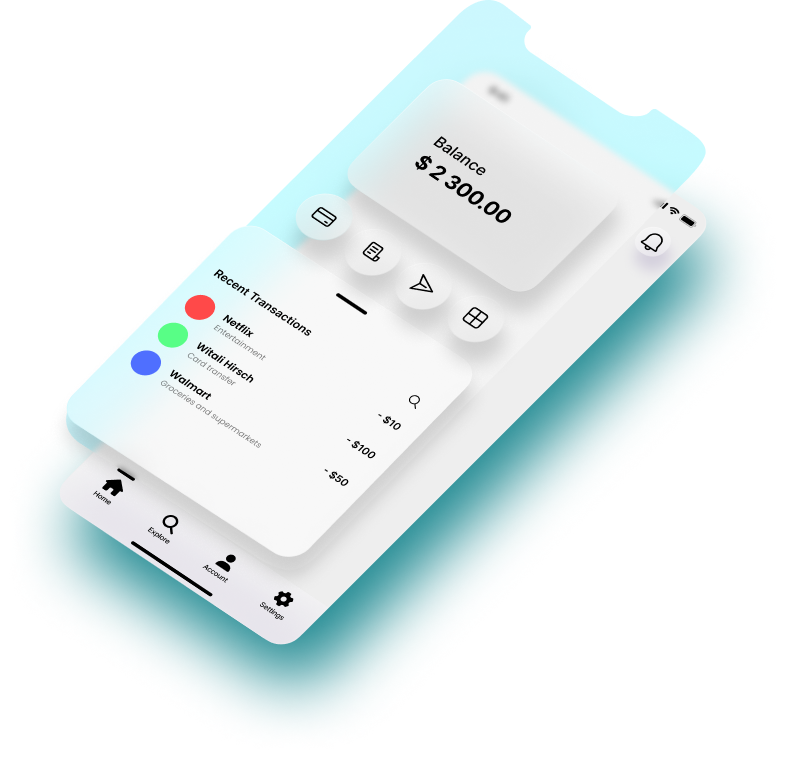
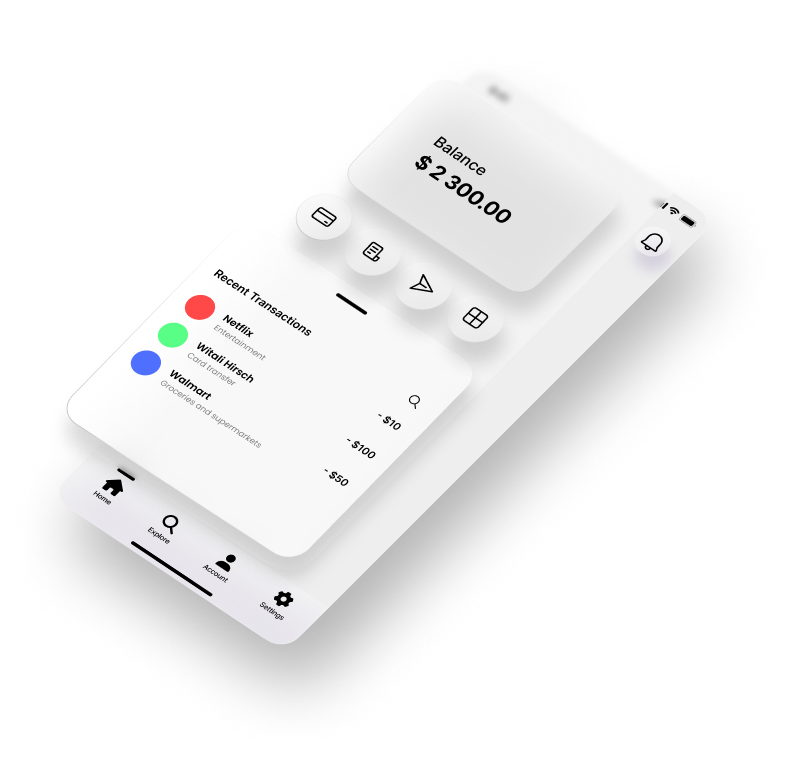
tests for navbar burger

Changed region(s): [[0.0611, 0.3038, 0.9466, 0.9419], [0.0611, 0.0, 0.916, 0.6077]]

diff --git a/bank/index.html b/bank/index.html
@@ -5,8 +5,6 @@
     <meta charset="UTF-8">
     <meta name="viewport" content="width=device-width, initial-scale=1.0, viewport-fit=cover">
     <meta name="theme-color" content="#fff">
-    <!--<meta name="theme-color" content="#fdcfee" media="(prefers-color-scheme: light)">
-    <meta name="theme-color" content="#220719" media="(prefers-color-scheme: dark)">-->
     <meta name="apple-mobile-web-app-capable" content="yes">
     <meta name="apple-mobile-web-app-status-bar-style" content="yes">
     <meta http-equiv="X-UA-Compatible" content="ie-edge">
@@ -15,6 +13,7 @@
     <link id="theme-style" rel="stylesheet" href="css/light.css">
     <link rel="stylesheet" type="text/css" href="css/card.css" />
     <link rel="stylesheet" type="text/css" href="css/loading.css" />
+    <link rel="stylesheet" type="text/css" href="css/get-app.css" />
     <link rel="shortcut icon" type="image/svg" href="images/logo.svg">
     <title>Bank</title>
 </head>
@@ -38,7 +37,7 @@
                 <div class="nav-left">
                     <ul>
                         <li class="nav-text">
-                            <a class="nav-link" href="" ontouchstart="">Home</a>
+                            <a class="nav-link nav-link-active" href="" ontouchstart="">Home</a>
                         </li>
                         <li class="nav-text">
                             <a class="nav-link" href="" ontouchstart="">Features</a>
@@ -57,7 +56,7 @@
                             <a class="nav-link" href="" ontouchstart="">Business</a>
                         </li>
                         <li class="nav-button" ontouchstart="">
-                            <a class="nav-link-button" href="">Get App</a>
+                            <a class="nav-link-button">Get App</a>
                         </li>
                     </ul>
                 </div>
@@ -77,7 +76,7 @@
     </button>
     <main class="wrapper">
         <section class="top-content">
-            <img id="ellipse-top" src="images/ellipse-top.svg" alt="Ellipse Top">
+
             <div class="container-row">
                 <div class="title-left">
                     <div class="title-left-top">
@@ -96,16 +95,12 @@
                 <div class="title-right">
                     <div class="cards">
                         <img id="cards" src="images/cards.png" alt="Cards">
-                        <span class="circle-1"></span>
-                        <span class="circle-2"></span>
-                        <span class="circle-3"></span>
-                        <span class="circle-4"></span>
                     </div>
                 </div>
             </div>
         </section>
         <section class="center-content">
-            <img id="ellipse-center" src="images/ellipse-center.svg" alt="Ellipse Center">
+     
             <div class="container-column">
                 <div class="center-content-top">
                     <p class="title">Buy with your Phone!</p>
@@ -158,7 +153,6 @@
         </section>
     </main>
     <footer class="footer">
-        <img id="ellipse-bottom" src="images/ellipse-bottom.svg" alt="Ellipse Bottom">
         <div class="container-row">
             <div class="footer-section">
                 <button class="footer-title" id="socials-title" ontouchstart="">Socials</button>

diff --git a/bank/js/theme.js b/bank/js/theme.js
@@ -66,9 +66,6 @@ function changeImagesToDarkMode() {
 
     device.setAttribute("src", "images/device-dark.png");
 
-    ellipseTop.setAttribute("src", "images/ellipse-top-dark.svg");
-    ellipseCenter.setAttribute("src", "images/ellipse-center-dark.svg");
-    ellipseBottom.setAttribute("src", "images/ellipse-bottom-dark.svg");
 
     linkedin.setAttribute("src", "images/linkedin-dark.svg");
     youtube.setAttribute("src", "images/youtube-dark.svg");
@@ -88,9 +85,6 @@ function changeImagesToLightMode() {
 
     device.setAttribute("src", "images/device.png");
 
-    ellipseTop.setAttribute("src", "images/ellipse-top.svg");
-    ellipseCenter.setAttribute("src", "images/ellipse-center.svg");
-    ellipseBottom.setAttribute("src", "images/ellipse-bottom.svg");
 
     linkedin.setAttribute("src", "images/linkedin.svg");
     youtube.setAttribute("src", "images/youtube.svg");

diff --git a/bank/css/style.css b/bank/css/style.css
@@ -60,6 +60,8 @@ a {
     -webkit-user-select: none;
     -ms-user-select: none;
     user-select: none;
+    -webkit-user-drag: none;
+    user-drag: none;
 }
 
 .wrapper {
@@ -279,6 +281,10 @@ input:active {
 .nav-link {
     color: rgba(0, 0, 0, 0.5);
     transition: 0.2s;
+}
+
+.nav-link-active {
+    color: #000;
 }
 
 .nav-button {
@@ -1677,6 +1683,10 @@ input:active {
         color: rgba(0, 0, 0, 0.5);
     }
 
+    .nav-link-active {
+        color: #000;
+    }
+
     .nav-link-button {
         border-color: rgba(0, 0, 0, 0.5);
         color: #000;
@@ -1966,6 +1976,10 @@ input:active {
 
     .nav-link {
         color: rgba(255, 255, 255, 0.5);
+    }
+
+    .nav-link-active {
+        color: #fff;
     }
 
     .nav-link-button {

diff --git a/bank/css/dark.css b/bank/css/dark.css
@@ -83,6 +83,10 @@ input:active {
     color: rgba(255, 255, 255, 0.5);
 }
 
+.nav-link-active {
+    color: #fff;
+}
+
 .nav-link-button {
     border-color: rgba(255, 255, 255, 0.5);
     color: #fff;

diff --git a/bank/css/light.css b/bank/css/light.css
@@ -83,6 +83,10 @@ input:active {
     color: rgba(0, 0, 0, 0.5);
 }
 
+.nav-link-active {
+    color: #000;
+}
+
 .nav-link-button {
     border-color: rgba(0, 0, 0, 0.5);
     color: #000;
